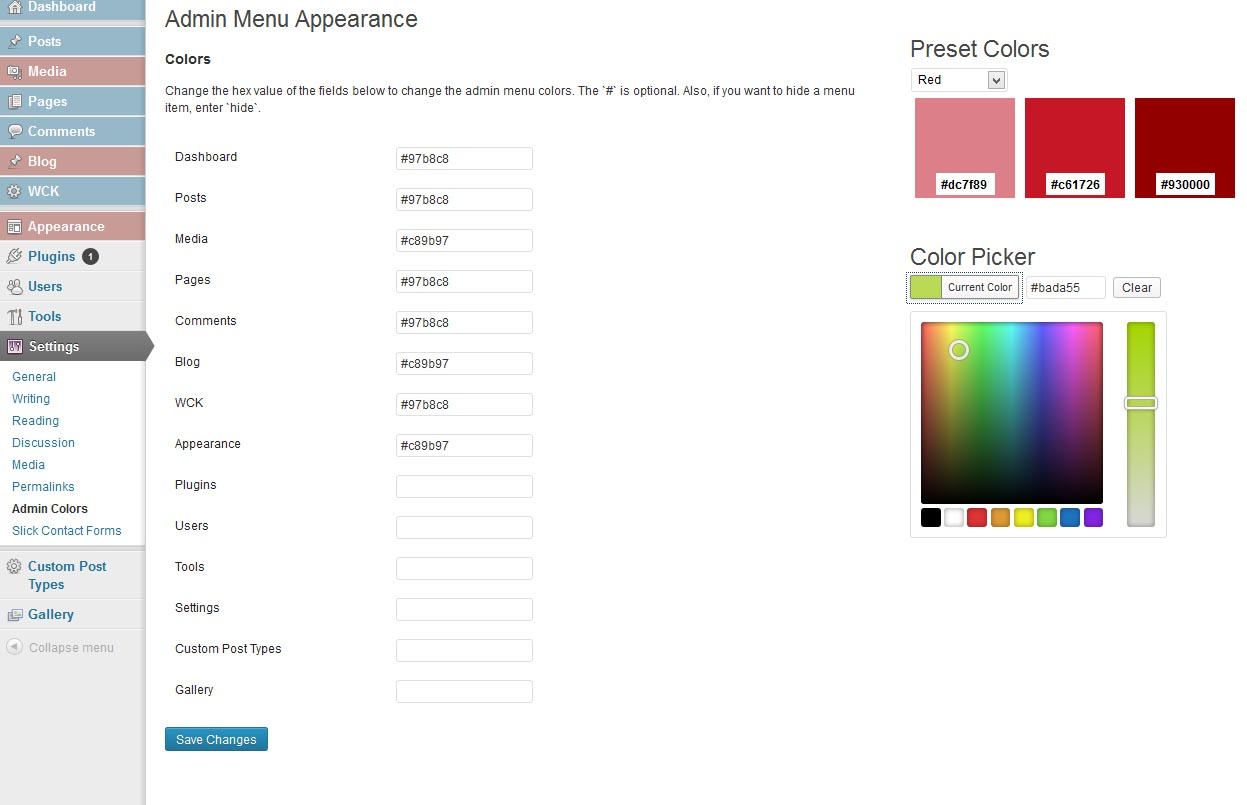
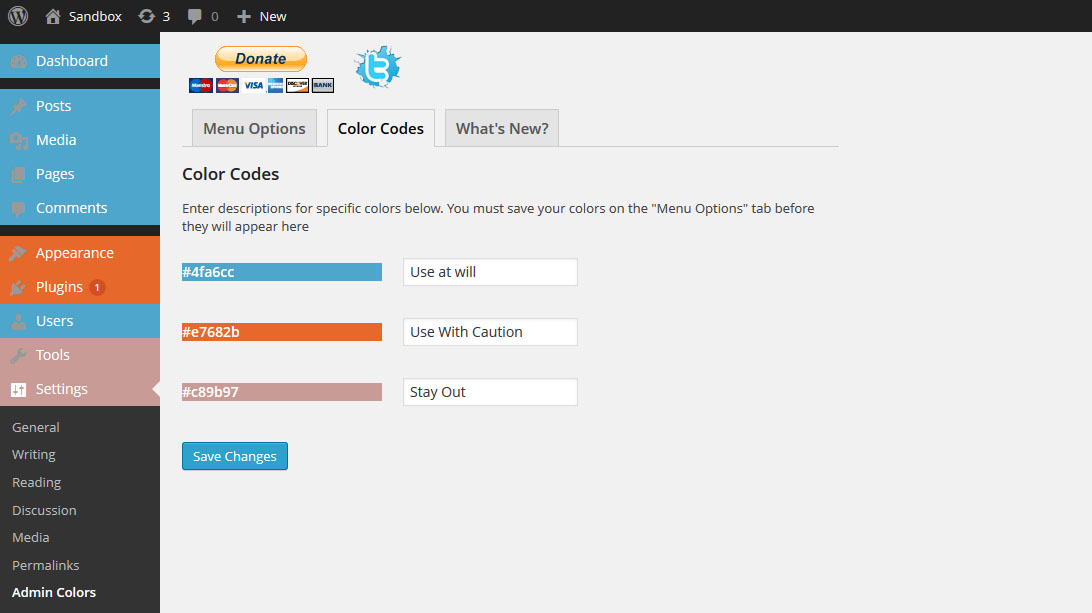
2.0 commit
git-svn-id: https://plugins.svn.wordpress.org/easily-change-admin-color/tags/2.0@824859 b8457f37-d9ea-0310-8a92-e5e31aec5664

diff --git a/css/style.css b/css/style.css
@@ -38,6 +38,15 @@
 	float: left;
 }
 
+#twitter{
+	background-image: url("http://localhost/WordpressTestEnvironment/wp-content/plugins/easily-change-admin-color/images/twittericon.png");
+    float: left;
+    height: 53px;
+    margin-left: 8px;
+    margin-top: 0;
+    width: 51px;	
+}
+
 #cam_scheme{
 	float: left;
 	clear: left;

diff --git a/js/cam_js.js b/js/cam_js.js
@@ -42,5 +42,13 @@ jQuery(document).ready(function($){
 		if(scheme == 'green'){
 			$('#scheme-green').show();
 		}
+		
+		if(scheme == 'orange'){
+			$('#scheme-orange').show();
+		}
+		
+		if(scheme == 'yellow'){
+			$('#scheme-yellow').show();
+		}
 	})
 	});

diff --git a/cam_functions.php b/cam_functions.php
@@ -11,15 +11,56 @@
 <img alt="" border="0" src="https://www.paypalobjects.com/en_US/i/scr/pixel.gif" width="1" height="1">
 </form>
 
-<a href="http://twitter.com/kylefoulks" target="_blank" id="twitter" style="margin-left: 15px;margin-top:15px;float:left;;background-image:url(<?php echo plugins_url('images/twitter.jpg', __FILE__ )?>);height: 21px; width: 100px;"></a>
+<a href="http://twitter.com/kylefoulks" target="_blank" id="twitter"></a>
 <br style="clear: both;"/>
-                <h2>Admin Menu Appearance</h2>
+    <?php  
+        $active_tab = isset( $_GET[ 'tab' ] ) ? $_GET[ 'tab' ] : 'menu_options';  ?>
+
+<h2 class="nav-tab-wrapper">  
+    <a href="?page=admin_colors&tab=menu_options" class="nav-tab <?php echo $active_tab == 'menu_options' ? 'nav-tab-active' : ''; ?>">Menu Options</a>  
+    <a href="?page=admin_colors&tab=color_codes" class="nav-tab <?php echo $active_tab == 'color_codes' ? 'nav-tab-active' : ''; ?>">Color Codes</a>  
+     <a href="?page=admin_colors&tab=coming_soon" class="nav-tab <?php echo $active_tab == 'coming_soon' ? 'nav-tab-active' : ''; ?>">What's New?</a>  
+</h2> 
+                
                     <form action="options.php" method="POST">
-                        <?php settings_fields( 'cam_option_group' ); ?>
-                        <?php do_settings_sections( 'admin_colors' ); ?>
-                        <?php submit_button(); ?>
+                       
+                        <?php 
+							 if( $active_tab == 'menu_options' ) {  
+							 	echo '<h3>Menu Options</h3>';
+								
+								settings_fields( 'cam_option_group' );  
+								do_settings_sections( 'admin_colors' );  
+							}elseif ($active_tab == 'coming_soon'){
+								echo '<h3>What\'s New in 2.0?</h3>';
+								echo '1. New tabbed browsing allows for easy navigation between option pages.<br>';
+								echo '2. Color Codes! Tell your users what your menu colors actually mean by an easy to use interface!<br>';
+								echo '3. Twitter logo updated to match new Wordpress 1.8 color scheme<br>';
+								echo '4. Small squares beside input fields on the "Menu Options" tab. Now you can see what your colors are inline with the field.<br>';
+								echo '5. Orange preset color scheme.<br>';
+								echo '6. Yellow preset color scheme.';
+								echo '<br>';
+								echo '<h3>Coming Soon</h3>';
+								
+								echo '1. A contact form for suggestions<br><br>';
+								
+								echo 'This is my first plugin and I am improving it as I think of new ideas. However, if you have a feature that you would like to see feel free to contact me. You can contact me directly at kfoulks2011@gmail.com. Any and all suggestions are appreciated. I am also currently working on a portfolio website. I should have it released shortly. As soon as it is released, I will release a plugin update that links to it. If you like this plugin, pass it around to your friends!';
+									
+							}else { 
+								settings_fields( 'cam_code_group' );  
+								do_settings_sections( 'color_codes' );  
+							} // end if/else  
+							  
+							if($active_tab != 'coming_soon'){
+								submit_button();
+							}  
+						
+						
+						?>
+                        
+                        
                     </form>
              </div>
+       			<?php if($active_tab == 'menu_options'){?>
              <div id="cam_right">
              	<div id="cam_scheme">
                 	<h2>Preset Colors</h2>
@@ -32,6 +73,7 @@
                     <input type="text" value="#bada55" class="my-color-field" />
                 </div>
              </div>
+             <?php };?>
          </div><?php
 			cam_values($menu_id);
 		};
@@ -40,11 +82,21 @@
 	function main_section_callback(){
 			echo 'Change the hex value of the fields below to change the admin menu colors.  The `#` is optional.  Also, if you want to hide a menu item, enter `hide`. <br><br>';
 	};
-
+	
+//dispays the help text for the color codes section. 
+	function color_code_section_callback(){
+		echo 'Enter descriptions for specific colors below. You must save your colors on the "Menu Options" tab before they will appear here';
+	}
+$color_code_values = array();
 //this function generates all of the form fields based on the menu id variable
 function field_one_callback($menu_id){
 		$setting = esc_attr( get_option( 'cam_'.$menu_id ) );
-    	echo "<input type='text' name='cam_$menu_id' value='$setting' />";
+		//add color to an array for use in the color code widget
+		global $color_code_values;
+		$color_code_values[] = $setting;
+		
+		$sanitized_color = str_replace('#','',$setting);
+    	echo "<input style='float:left;' type='text' name='cam_$menu_id' value='$setting' /> <div style='margin-left: 10px;background-color: #$sanitized_color;float: left;height: 27px; width: 27px; '></div>";
 	};
 
 //loads the custom css to the admin head hook	
@@ -72,4 +124,18 @@ function cam_write_to_file($writable){
 		
 		file_put_contents($writable_file,$writable);
 	}
+
+
+function create_color_code_fields($color){
+	$new_color = str_replace('#','',$color);
+	register_setting('cam_code_group','cam_code_'.$new_color);
+	add_settings_field( 'cam_code_'.$new_color, '<span style="display: inline-block; width: 200px; background-color:#'.$new_color.'; color: #fff;">#'.$new_color.'</span>', 'field_callback', 'color_codes','color-code-section',$new_color);	
+}
+function field_callback($new_color){
+	
+	if($new_color != ''){
+		$field_value = get_option('cam_code_'.$new_color);
+	echo "<input type='text' id='cam_code_$new_color' name='cam_code_$new_color' value='$field_value'>";
+	}
+}
 ?>

diff --git a/index.php b/index.php
@@ -1,7 +1,7 @@
 <?php
    /* Plugin Name: Easily Change Admin Color
     Description:  Change admin menu colors and appearances. 
-    Version: 1.1
+    Version: 2.0
     Author: Kyle Foulks
 	License: GPLv2;
     */
@@ -10,11 +10,13 @@
 	//set $hide_admin_colors_menu to 'true' to hide the options menu once all colors have been set.
 	//set $hide_admin_colors_menu to 'false' to leave the options menu visible. 
 	$hide_admin_colors_menu = 'false';
+	$menu_id_array = array();
 
 	include($url.'cam_functions.php');
 
 	function cam_admin_menu(){
 			add_options_page( 'Admin Colors', 'Admin Colors', 'manage_options', 'admin_colors', 'cam_display_page');
+			add_options_page('Admin Color Codes', 'Admin Color Codes', 'manage_options', 'color_codes', 'cam_display_page');
 	}
 	add_action( 'admin_enqueue_scripts', 'mw_enqueue_color_picker' );
 
@@ -26,6 +28,9 @@ function mw_enqueue_color_picker( $hook_suffix ) {
 	
 	function cam_admin_init(){
 		global $menu;
+		
+		//remove the submenu page responsible for creating the color codes tab.
+		remove_submenu_page('options-general.php', 'color_codes');
 		$cam_keys_array = array();
 				if($menu){
 					foreach($menu as $key=>$v){
@@ -34,6 +39,7 @@ function mw_enqueue_color_picker( $hook_suffix ) {
 				}
 			
 			foreach($cam_keys_array as $key=>$v){
+				global $menu_id_array;
 
 					$menu_number = $v;
 					
@@ -47,6 +53,10 @@ function mw_enqueue_color_picker( $hook_suffix ) {
 					add_settings_field($menu_id,$menu_title,'field_one_callback','admin_colors','main-section',$menu_id);
 					$data[$menu_id] = cam_values($menu_id);
 					}
+					
+					//add menu_ids to array
+					array_push($menu_id_array, $menu_id);
+					
 			}
 			
 				if($menu){
@@ -85,9 +95,29 @@ function mw_enqueue_color_picker( $hook_suffix ) {
 				};
 			};
 			add_settings_section( 'main-section', 'Colors', 'main_section_callback', 'admin_colors' );
+			
+			//create section for the color code tab
+			 add_settings_section( 'color-code-section', 'Color Codes', 'color_code_section_callback', 'color_codes' );
+			 add_settings_field( 'field_id', 'Color 1', 'field_callback', 'admin_colors', 'color-code-section');
+			 global $menu_id_array;
+			 
+			 
+			 foreach($menu_id_array as $id){
+				 if($id != ''){
+					 $option = get_option('cam_'.$id);
+					 if($id != ''){
+						 if($option != '' && $option != 'hide'){
+							 
+						 	create_color_code_fields($option);
+						 }
+					 };
+				 }
+			 }
 		};
 	
 	//lets run!
+	
+	include($url.'cam_widget.php');
 	
 	if($hide_admin_colors_menu == 'false'){
 		add_action('admin_menu','cam_admin_menu');

diff --git a/inc/schemes.inc.php b/inc/schemes.inc.php
@@ -89,3 +89,39 @@
                 	<div class="cam_pop_color_desc">#66883f</div>
                 </div>
 </div>
+
+<div id="scheme-orange" class="scheme_hide">
+             	<div class="cam_pop_color" style="background-color: #e7682b;">
+                	<div class="cam_pop_color_desc">#e7682b</div>
+                </div>
+                
+                <div class="cam_pop_color" style="background-color: #ed792a;">
+                	<div class="cam_pop_color_desc">#ed792a</div>
+                </div>   
+                
+                <div class="cam_pop_color" style="background-color: #fd9534;">
+                	<div class="cam_pop_color_desc">#fd9534</div>
+                </div>
+                
+                <div class="cam_pop_color" style="background-color: #ffc165;">
+                	<div class="cam_pop_color_desc">#ffc165</div>
+                </div>
+</div>
+
+<div id="scheme-yellow" class="scheme_hide">
+             	<div class="cam_pop_color" style="background-color: #ffb600;">
+                	<div class="cam_pop_color_desc">#ffb600</div>
+                </div>
+                
+                <div class="cam_pop_color" style="background-color: #ffdf00;">
+                	<div class="cam_pop_color_desc">#ffdf00</div>
+                </div>   
+                
+                <div class="cam_pop_color" style="background-color: #feff1c;">
+                	<div class="cam_pop_color_desc">#feff1c</div>
+                </div>
+                
+                <div class="cam_pop_color" style="background-color: #ffff85;">
+                	<div class="cam_pop_color_desc">#ffff85</div>
+                </div>
+</div>

diff --git a/cam_widget.php b/cam_widget.php
@@ -1,0 +1,50 @@
+<?php
+	/**
+ * Add a widget to the dashboard.
+ *
+ * This function is hooked into the 'wp_dashboard_setup' action below.
+ */
+function color_code_widget() {
+
+	wp_add_dashboard_widget(
+                 'color_code_widget',         // Widget slug.
+                 'Admin Menu Color Codes',         // Title.
+                 'color_code_widget_function' // Display function.
+        );	
+}
+add_action( 'wp_dashboard_setup', 'color_code_widget' );
+
+/**
+ * Create the function to output the contents of our Dashboard Widget.
+ */
+function color_code_widget_function() {
+
+	echo 'These options are set on the "Color Codes" tab in the "Admin Colors" menu.';
+	global $menu_id_array;
+			 
+			 $used_color_array = array();
+			 foreach($menu_id_array as $id){
+				 if($id != ''){
+					 $option = get_option('cam_'.$id);
+					 if($option != ''){
+						 $sanitize_options = str_replace('#','',$option);
+						 
+						 if(!in_array($sanitize_options,$used_color_array)){
+							 $code_desc = get_option('cam_code_'.$sanitize_options);
+							 echo '<div style="padding-left: 10px; padding-top: 5px;color: #fff;width: 405px;margin-bottom: 10px; height:25px; background-color: #'.$sanitize_options.';">';
+							 	if($code_desc != ''){
+									echo $code_desc;
+								}else{
+									echo '(No Description Has Been Set)';	
+								}
+							 echo '</div>';
+							 $used_color_array[] = $sanitize_options;
+						 }
+					 };
+				 }
+			 }
+} 
+	
+
+
+?>

diff --git a/cam_color_scheme.php b/cam_color_scheme.php
@@ -8,6 +8,8 @@
 				<option value="primary">Primary</option>
 				<option value="allow-deny">Allow / Deny</option>
 				<option value="purple">Purple</option>
+				<option value="orange">Orange</option>
+				<option value="yellow">Yellow</option>
 			</select>
 			</form>
 		';
